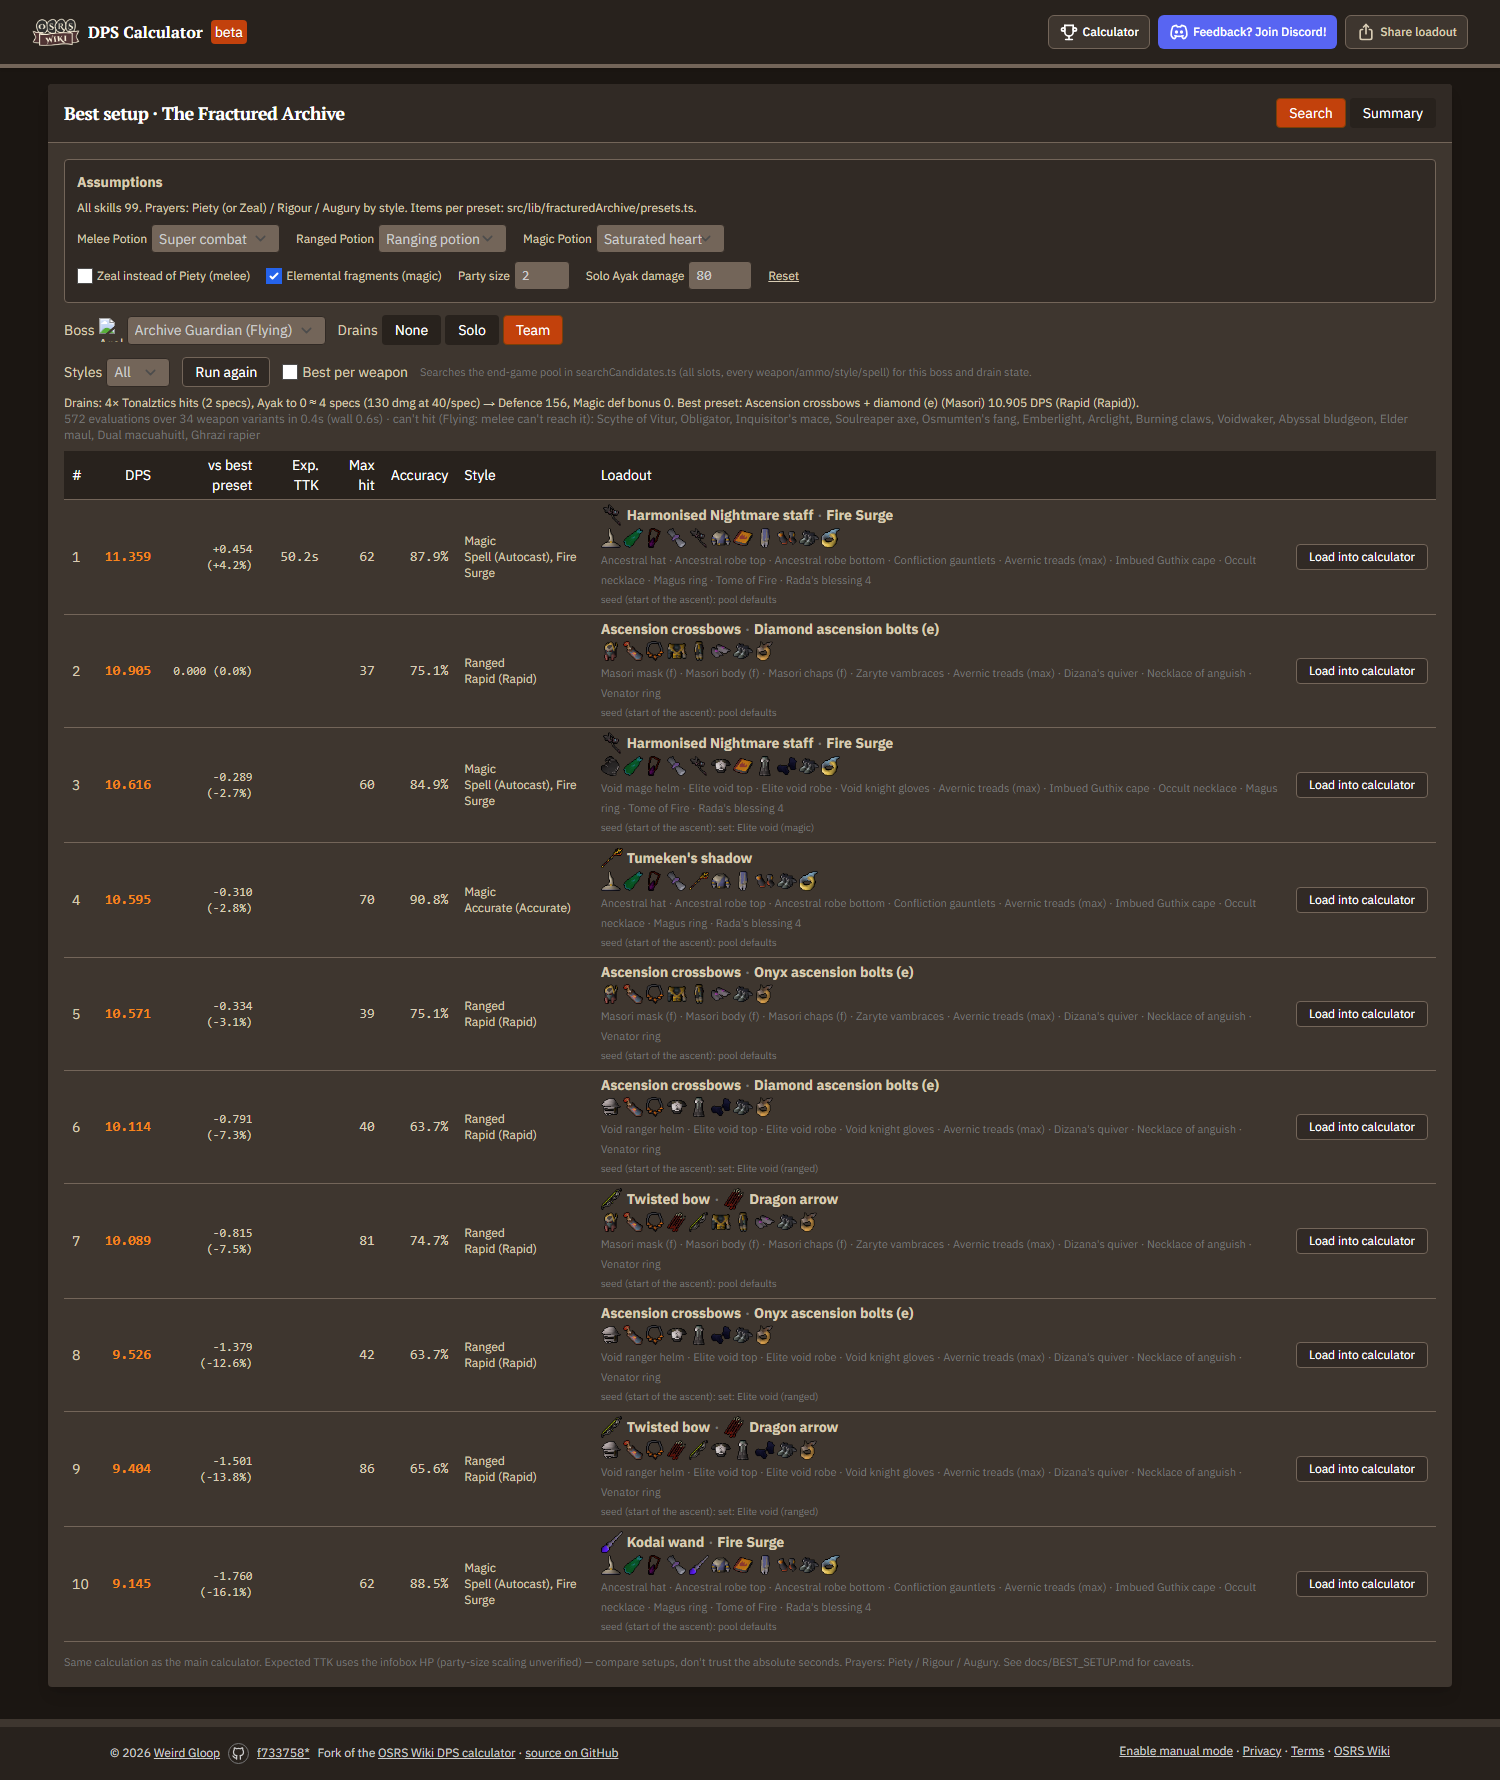
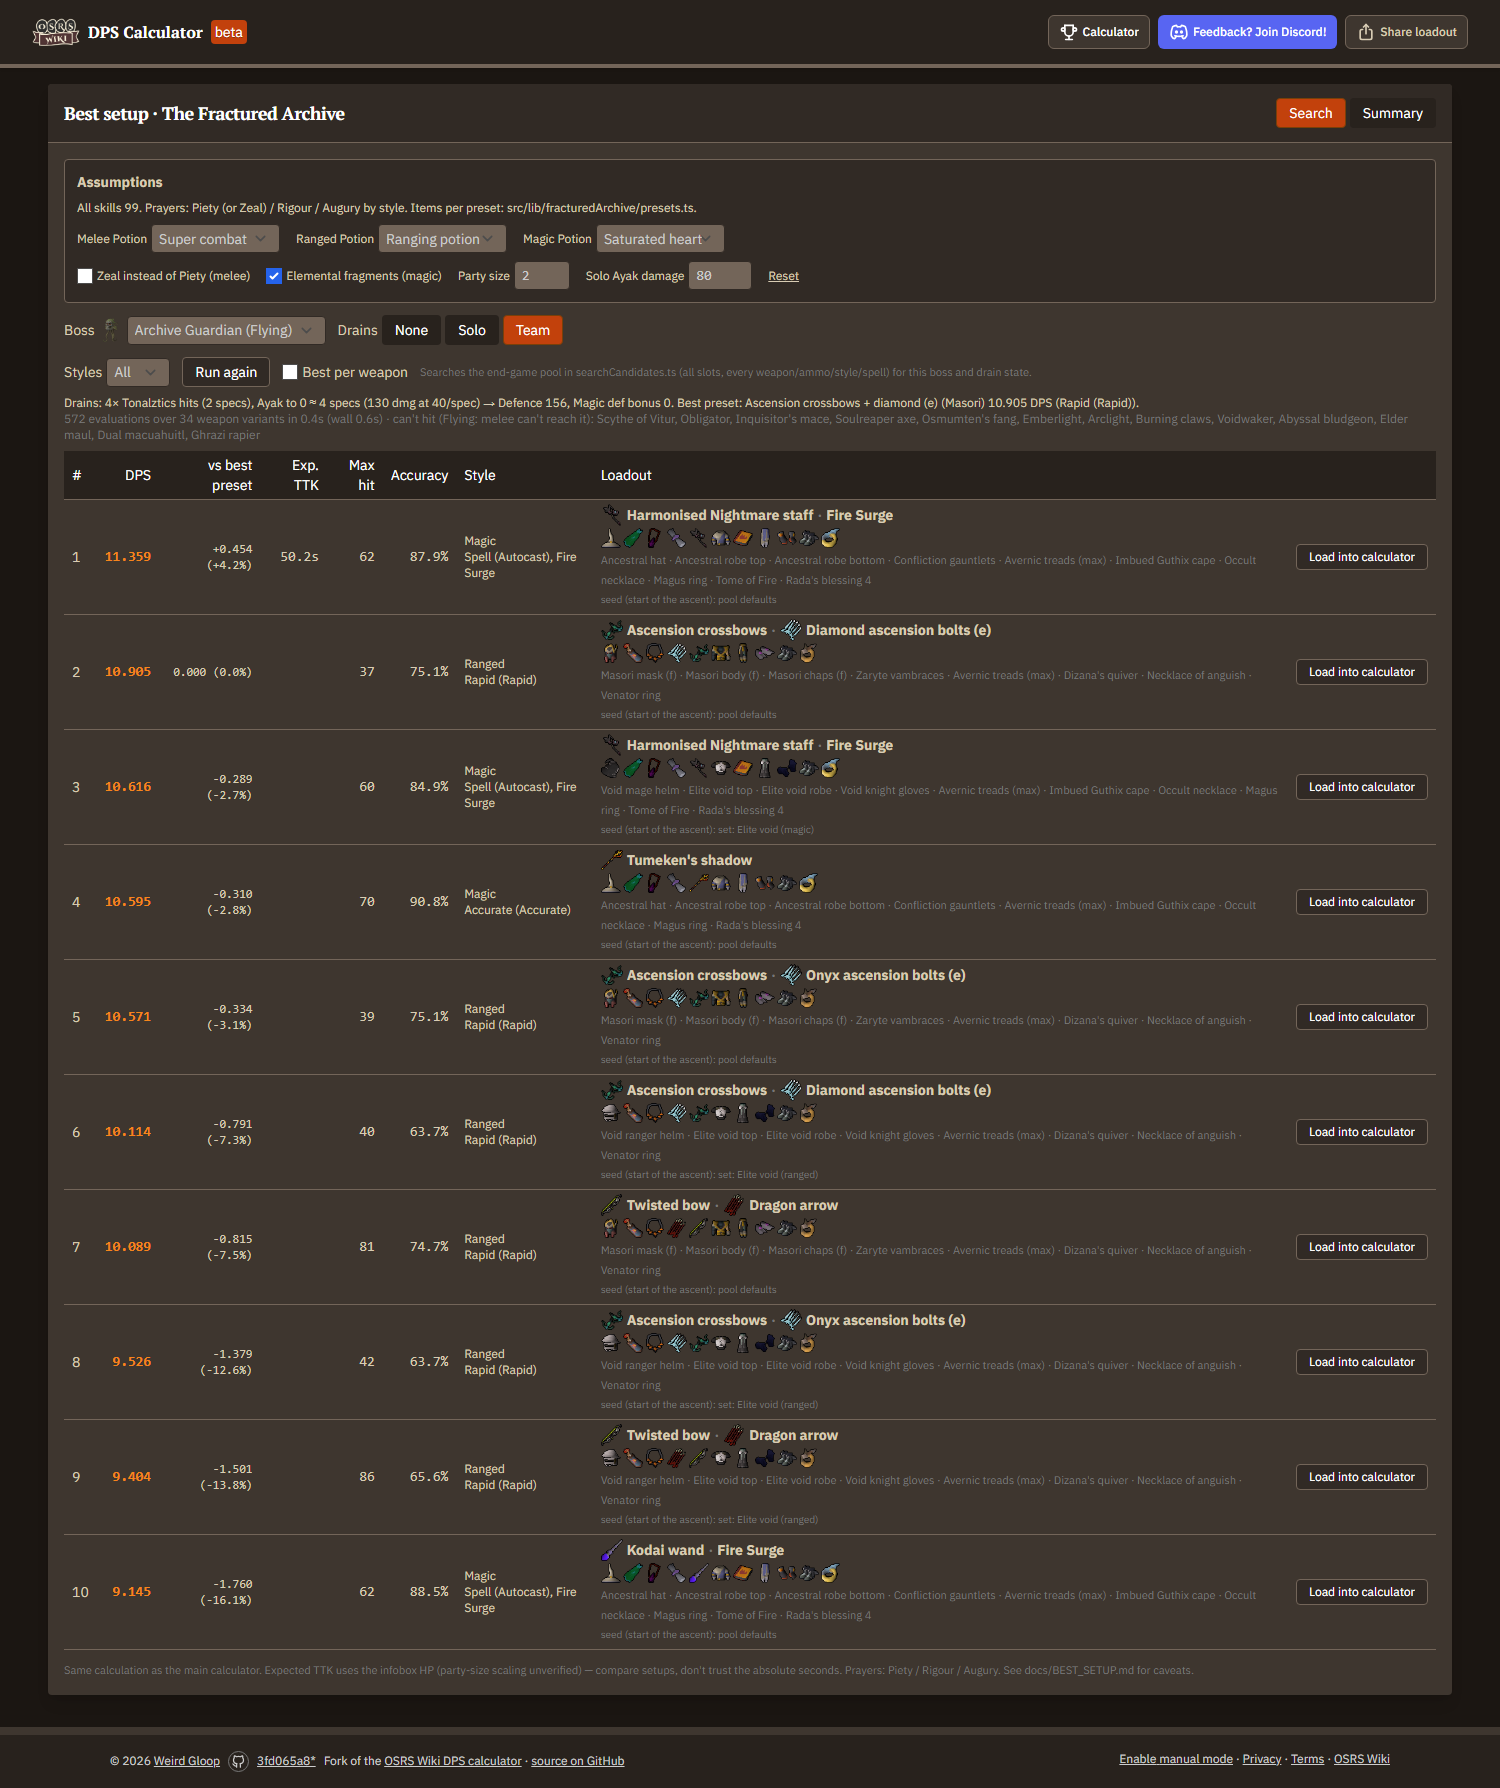
phase 13 fixes: review follow-ups
- Summary: debounce assumption changes (500 ms) before restarting the 51 searches
- wording fixes; DATA_SOURCES notes the Accursed + 2 Tonalztics tie on Ocellus P3 Deflect Melee
- tests pin exact Tonalztics hit counts (P1 walking 2, P3 Deflect Melee 3, AG Flying 4)
- dev images from our deployed cdn copy (NEXT_PUBLIC_CDN_URL in .env.development)
- ROADMAP round 2 section (orchestrator rewrite, phases 13-22)

diff --git a/src/app/components/bestSetup/SummaryView.tsx b/src/app/components/bestSetup/SummaryView.tsx
@@ -25,15 +25,19 @@ import { ItemIcon, LoadoutIconRow, WeaponLine } from '@/app/components/bestSetup
 import DPS_TEXT_CLASS from '@/app/components/bestSetup/styles';
 
 // "Summary" tab of /best-setup (phase 13): the top gear-search result for every Summary boss / phase × drain state.
-// The ~54 searches run one after the other in the search worker when the tab opens; results are cached in memory for
-// the session (module scope, so switching tabs keeps them) and keyed by the assumptions, so changing an assumption
-// re-runs. Cancel stops after the current search is terminated; "Continue" resumes with the uncached ones.
+// The 51 searches (17 rows × 3 drain states) run one after the other in the search worker when the tab opens;
+// results are cached in memory for the session (module scope, so switching tabs keeps them) and keyed by the
+// assumptions, so changing an assumption re-runs (debounced by ASSUMPTION_DEBOUNCE_MS, so typing a multi-digit value
+// restarts once). Cancel terminates the current search and stops; "Continue" resumes with the uncached ones.
 
 /** What the table needs of a search (the full result has 10+ rows per search). */
 type SummaryCell = Pick<GearSearchResult, 'drain' | 'bestPreset'> & { top: GearSearchResult['rows'][number] | null };
 
 const cache = new Map<string, SummaryCell>();
 let cacheAssumptions = '';
+
+/** Delay between the last assumption change and the (re)start of the summary searches. */
+export const ASSUMPTION_DEBOUNCE_MS = 500;
 
 const fmt = (n: number) => (Number.isFinite(n) ? n.toFixed(3) : '-');
 
@@ -101,8 +105,12 @@ const SummaryView: React.FC<{ assumptions: BestSetupAssumptions }> = ({ assumpti
       cacheAssumptions = a;
     }
     setCells(cachedCells());
-    run();
-    return () => cancel();
+    cancel();
+    const timer = setTimeout(() => run(), ASSUMPTION_DEBOUNCE_MS);
+    return () => {
+      clearTimeout(timer);
+      cancel();
+    };
   }, [assumptions, cachedCells, run, cancel]);
 
   const onLoad = (q: GearSearchQuery, cell: SummaryCell) => {

diff --git a/src/tests/lib/fracturedArchive/Drains.test.ts b/src/tests/lib/fracturedArchive/Drains.test.ts
@@ -294,7 +294,8 @@ describe('drain plans respect what can hit the target', () => {
     for (const weapon of ALL_WEAPONS) {
       const plan = maxDrainReductions(m, { weapon, ayak: true });
       noMelee(plan.reductions);
-      expect(plan.reductions.tonalztic).toBeGreaterThan(0);
+      expect(plan.reductions).toEqual({ ...NONE, tonalztic: 2, ayak: plan.reductions.ayak });
+      expect(plan.summary).toBe('2× Tonalztics hits (1 spec) → Def 129');
       expect(plan.reachesFloor).toBe(true);
     }
     // at a corner melee is fine again
@@ -307,6 +308,10 @@ describe('drain plans respect what can hit the target', () => {
       for (const weapon of ALL_WEAPONS) {
         const plan = maxDrainReductions(m, { weapon, ayak: true });
         noMelee(plan.reductions);
+        // accursed + 2 hits ties (same energy / actions); the plan without accursed is found first and kept
+        expect(plan.reductions).toEqual({ ...NONE, tonalztic: 3, ayak: plan.reductions.ayak });
+        expect(drained(m, { ...NONE, accursed: true, tonalztic: 2 }).skills.def).toBe(150);
+        expect(drained(m, { ...NONE, tonalztic: 2 }).skills.def).toBeGreaterThan(150);
         expect(plan.defAfter).toBe(150);
       }
     }

diff --git a/src/app/components/bestSetup/styles.ts b/src/app/components/bestSetup/styles.ts
@@ -1,5 +1,5 @@
 /**
- * DPS values in the Search, Per-boss and Summary tables: the site's accent orange (tailwind.config.js `orange`, as on
+ * DPS values in the Search and Summary tables: the site's accent orange (tailwind.config.js `orange`, as on
  * the active loadout tab / tab-bar border) and semi-bold so they stand out.
  */
 const DPS_TEXT_CLASS = 'text-orange-400 dark:text-orange-300 font-semibold';

diff --git a/ROADMAP.md b/ROADMAP.md
@@ -86,18 +86,24 @@ Requested after the site went live (2026-10-23). Same workflow per phase as abov
 
 | # | Phase | Done when | Status |
 |---|---|---|---|
-| 13 | Round-2 fixes | Drain plans only use weapons that can hit the target in that phase; DPS column highlighted; realistic Team-drain spec counts; tests | in progress |
-| 14 | Raid time model | Pure `raidTime(route, kits)` with per-boss/phase HP weights and documented assumptions; tests | planned |
-| 15 | Raid plan tab | Route, team size, carried specs, supply counts → optimised kit; 4×7 inventory grid + worn gear with icons; load into calculator | planned |
-| 16 | Multi-raid structure | Raid tabs; per-raid config (bosses, phases, scaling inputs); Search/Per-boss/Plan work for any raid | planned |
-| 17 | ToA | Invocation level, party size, path levels; Akkha, Ba-Ba, Kephri, Zebak, Wardens; presets | planned |
-| 18 | CoX | Party size, CM; Tekton, Vasa, Vanguards, Vespula, Muttadiles, Mystics, Shamans, Guardians, Ice demon, Olm | planned |
-| 19 | ToB | Party size, HM; Maiden, Bloat, Nylocas, Sotetseg, Xarpus, Verzik P1–P3 | planned |
-| 20 | Final review (round 2) | Fresh pass; UNVERIFIED.md updated for new raids and planner | planned |
+| 13 | Round-2 fixes | Drain plans only use weapons that can hit the target in that phase; DPS column highlighted; Per-boss tab removed; Summary search-based with icons; tests | in review |
+| 14 | Spec & drain model | Per drain weapon (Elder maul, DWH, BGS, Tonalztics, Ayak, Accursed): spec hit chance and expected damage from the calc per boss/phase; Ayak input = spec count, drain = count × expected damage; spec-energy budget per player (100% start, +10%/30 s, Lightbearer doubles) labels plans solo / solo+Lightbearer / team-only, Solo state shows the partial drain actually reachable; team spec planner: party size + carriers per weapon → P(floor reached from the first round of specs) and a carrier recommendation; tests | planned |
+| 15 | Remaining bosses | Ezekiel, Moia, Dagon'hai Elder + Monks modelled from the wiki (stats already in data; floors 78/117 done) with the same build/review loop, so every route can be compared | planned |
+| 16 | Raid time model | Pure `raidTime(route, kit)` = Σ HP ÷ DPS over the route's bosses/phases, DPS time only (no puzzle/travel); Bork + Smorks killed evenly (Bork damage spread across the 4 armour tiers, Smorks 600 hp on top); Ocellus P2 at 50% carry-over; AG flying/grounded split with shield hp as a setting (unverified); party-size hp table (unverified); route enumeration + comparison; tests | planned |
+| 17 | Raid plan tab | Inputs: party size (default 6), route or compare-all, items always carried (default from the user's kit), spec weapons carried, supply slot counts (default 6 brew / 4 restore / 2 ranging / 1 super combat); optimiser builds partial switches from search results within the free slots to minimise route time; output: worn gear, 4×7 inventory grid with icons, free-slot count, per-boss style/DPS table, load into calculator; brute-force check on small cases | planned |
+| 18 | Raid tabs + ToA | Per-raid config (bosses, phases, scaling inputs) so Search/Summary/Plan work for any raid; ToA with invocation level (default 500), party size, path levels; Akkha, Ba-Ba, Kephri, Zebak, Wardens; presets | planned |
+| 19 | CoX | Normal / CM, team size (Defence scales); Tekton, Vasa, Vanguards, Vespula, Muttadiles, Mystics, Shamans, Guardians, Ice demon, Olm | planned |
+| 20 | ToB | Normal / HM, team size; Maiden, Bloat, Nylocas, Sotetseg, Xarpus, Verzik P1–P3 | planned |
+| 21 | Planner for ToA/CoX/ToB | Fixed routes; time model from upstream's verified hp scaling | planned |
+| 22 | Final review (round 2) | Fresh pass; UNVERIFIED.md updated for new raids and planner (incl. "does FA Defence scale with players?" with an in-game check) | planned |
 
 ### Decisions (round 2)
 
-- Raids are added in the order ToA → CoX → ToB.
-- Planner objective = total raid time: Σ HP ÷ DPS over the route's bosses / phases.
-- The user picks which spec weapons they carry; drains assume the team reaches the floor.
-- Supplies are entered as slot counts by type.
+- Raids are added in the order ToA → CoX → ToB, as tabs on one page.
+- Planner objective = total raid time: Σ HP ÷ DPS over the route's bosses / phases, DPS time only.
+- The planner optimises the user's own kit for the user's DPS; the team matters only for drains.
+- The user picks which spec weapons they carry; Solo drains are limited by the user's spec-energy budget; Team drains assume the team reaches the floor.
+- Supplies are entered as slot counts by type; the planner shows free slots.
+- Routes are compared (Guardian and Ocellus fixed; the middle bosses vary), so Ezekiel, Moia and Dagon'hai must be modelled.
+- Bork and the Smorks are killed evenly, not Bork first.
+- Fractured Archive Defence is assumed not to scale with party size (wiki mentions hp only) — unverified.

diff --git a/docs/DATA_SOURCES.md b/docs/DATA_SOURCES.md
@@ -447,8 +447,10 @@ A plan only uses a drain weapon whose style can hit the monster in the selected 
 halberds / salamanders), Ocellus's prayers (`ocellus.ts`) and upstream's immunity lists all apply without a copy of the
 rules. If the named weapon can't hit, the plan is the cheapest among the tools that can: Tonalztics hits, optionally
 after one Accursed sceptre spec (50% energy). The accursed spec's **Defence part counts** (phase 3 reading: AG's
-absorption covers Magic-level effects only), so on AG it is a valid tool; it is just never cheaper than Tonalztics
-here (accursed + 3 hits = 150% vs 4 hits = 100%). Arclight / Emberlight are melee and not used by presets. Ranking as
+absorption covers Magic-level effects only), so on AG it is a valid tool, but never cheaper there (accursed + 3 hits
+= 150% vs 4 hits = 100%). On Ocellus P3 Deflect Melee, accursed + 2 hits (250 → 212 → 150; 100% energy, 3 actions)
+**ties** the 3-hit plan (250 → 150; 100%, 3 actions); the 3-hit plan wins only because plans without accursed are
+checked first and a tie doesn't replace the earlier plan. Arclight / Emberlight are melee and not used by presets. Ranking as
 above (lowest Defence, then energy, then fewest hammer specs, then fewest actions). The Tonalztics finisher is only
 added when ranged can hit. The calculator's "Max drain" buttons grey out (strikethrough) a weapon that can't hit, with
 a tooltip and a line naming the plan actually applied.

diff --git a/PROGRESS.md b/PROGRESS.md
@@ -3,6 +3,21 @@
 Newest entry first. One entry per phase (or per notable fix). Keep entries short: what was done, how it was
 verified, what's unverified / left for later.
 
+## Phase 13 fixes — review follow-ups (2026-10-23)
+
+- Summary: assumption changes are debounced (`ASSUMPTION_DEBOUNCE_MS` = 500 ms) before the 51-search run restarts.
+- Wording: SummaryView "51 searches", `styles.ts` no longer mentions Per boss; DATA_SOURCES notes that on Ocellus P3
+  Deflect Melee, Accursed + 2 Tonalztics hits ties the 3-hit plan (100% energy, 3 actions), and the 3-hit plan wins
+  only because it is checked first.
+- Tests pin the plans exactly: P1 walking = 2 hits, P3 Deflect Melee = 3 hits (the accursed + 2 tie is checked too),
+  AG Flying = 4 hits.
+- Dev images: `.env.development` → `NEXT_PUBLIC_CDN_URL=https://dps.mxeaez.com/cdn`, so raid-4 icons load in dev
+  (Search 119/119, Summary 588/588). A dev rewrite proxy was dropped: the deployed site redirects `%27` paths to a
+  host-relative URL. Noted in CLAUDE.md.
+- ROADMAP.md Round 2 section as rewritten by the orchestrator (phases 13–22), unchanged.
+- `yarn test` 959 pass / 4 skipped, lint and `tsc --noEmit` clean; `verifyBestSetup.mjs` (Summary, 51 cells in 47 s)
+  and `verifyBestSetupUx.mjs` all OK.
+
 ## Phase 13 — Round-2 fixes: drains that can hit, Team Ayak count, DPS column (2026-10-23)
 
 - ROADMAP.md: Round 2 table (phases 13-20) and round-2 decisions.

diff --git a/docs/BEST_SETUP.md b/docs/BEST_SETUP.md
@@ -33,9 +33,9 @@ weapon, body, shield, legs, hands, feet, ring) with "name (slot)" tooltips; the 
 URLs come from `src/lib/fracturedArchive/loadoutIcons.ts`, which uses the same helper as the calculator's equipment
 slots and monster panel: `getCdnImage('equipment/<image>')` / `getCdnImage('monsters/<image>')` with the `image` field
 of equipment.json / monsters.json. Production therefore serves them from `/cdn/` on our domain
-(`NEXT_PUBLIC_CDN_URL`); dev loads upstream's CDN, which lacks the raid-4 images (Obligator, Ascension crossbows and
-bolts, the bosses) — those icons are hidden in dev (an `<img>` that fails to load hides itself; the name stays as
-text) and load in production. Icons are `loading="lazy"`, `alt` = item name. Spell icons are not shown: upstream loads
+(`NEXT_PUBLIC_CDN_URL`). Since the phase 13 fixes, dev uses the same deployed copy (`.env.development`), so the raid-4
+images (Obligator, Ascension crossbows and bolts, the bosses), which upstream's CDN lacks, load in dev too. An `<img>`
+that fails to load hides itself (the name stays as text). Icons are `loading="lazy"`, `alt` = item name. Spell icons are not shown: upstream loads
 them from the wiki (`getWikiImage`), which would be hotlinking. `LoadoutIcons.test.ts` checks the slot order, URLs,
 weapon lines, and that every preset/pool item and boss image exists in `cdn/` without a `%` in the name (those are
 skipped by the deploy).

diff --git a/CLAUDE.md b/CLAUDE.md
@@ -7,6 +7,10 @@ finder. Read `ROADMAP.md` (phases, decisions, data gaps) and `PROGRESS.md` (what
 
 - Yarn is vendored: `node .yarn/releases/yarn-4.9.2.cjs <cmd>` (no global yarn). Examples below use `yarn` for short.
 - `yarn dev` → http://localhost:3001/osrs-dps (port 3000 is occupied on this machine; check the "Local:" line).
+- Images in dev: `.env.development` sets `NEXT_PUBLIC_CDN_URL=https://dps.mxeaez.com/cdn` (our deployed copy of
+  `cdn/`), because upstream's CDN lacks the raid-4 images. A `next dev` rewrite to it was tried and dropped: the deployed
+  site 307-redirects `%27` (apostrophe) paths to a host-relative URL, which breaks behind a proxy. New images only show in
+  dev after a deploy.
 - `yarn test` (Jest, ~10 s) and `yarn lint` must both be green before a phase is called done.
 - `yarn build` → static export in `out/`. **Stop `yarn dev` first** — a build while the dev server runs corrupts its
   `.next` ("Cannot find module './NNNN.js'"); delete `.next` and restart `yarn dev` after building. Delete `.next`
